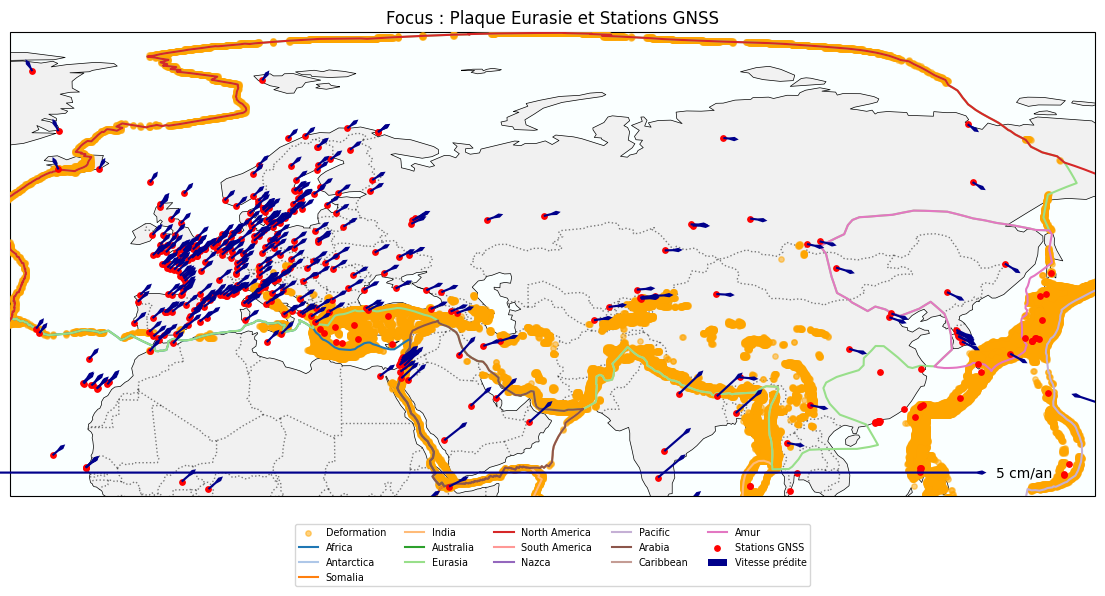
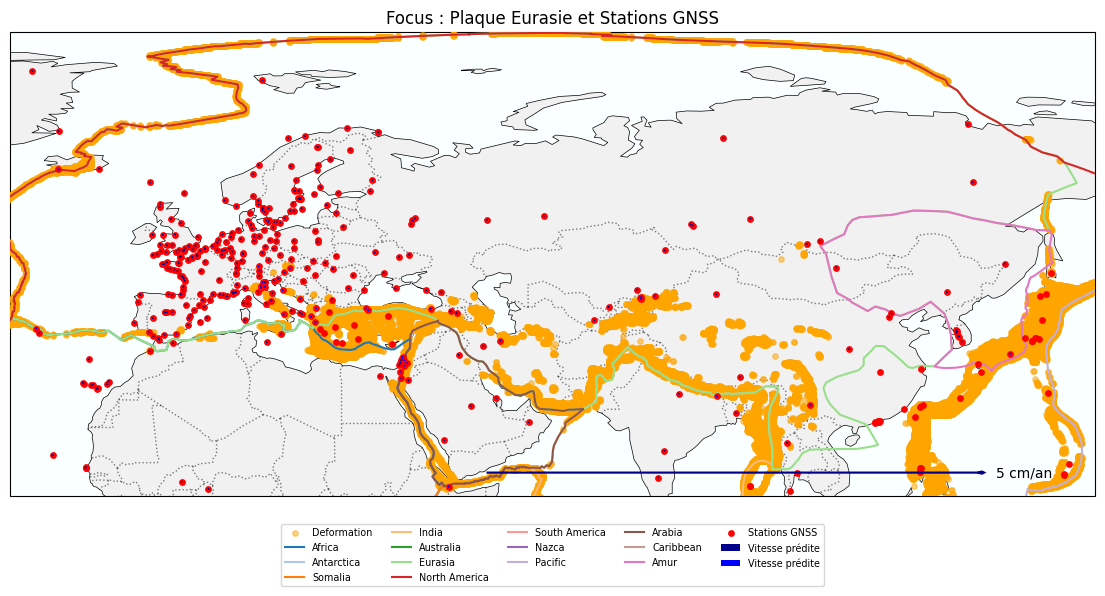
Debut ecriture doc string et exctraction via exportdoc

diff --git a/part5.py b/part5.py
@@ -5,6 +5,13 @@ import numpy as np
 
 
 def carte_monde_statique(dico_plaques, df_stations, df_GSRM):
+    """_summary_
+
+    Args:
+        dico_plaques (_type_): _description_
+        df_stations (_type_): _description_
+        df_GSRM (_type_): _description_
+    """
     fig = plt.figure(figsize=(12, 8))
     ax = fig.add_subplot(1, 1, 1, projection=ccrs.PlateCarree())
     
@@ -80,12 +87,12 @@ def carte_monde_statique(dico_plaques, df_stations, df_GSRM):
                   zorder=15,               
                   label='Vitesse prédite')
     
-    REF_VELOCITY = 5
+    REF_VELOCITY = 0.05
     
     ax.quiverkey(q, 
                  X=0.9, Y=0.05,            
                  U=REF_VELOCITY,           
-                 label=f'{REF_VELOCITY} cm/an', 
+                 label=f'{REF_VELOCITY} m/an', 
                  labelpos='E',             
                  coordinates='axes', fontproperties={'size': 10})
 
@@ -98,6 +105,13 @@ def carte_monde_statique(dico_plaques, df_stations, df_GSRM):
     plt.show()
 
 def carte_eurasie_statique(dico_plaques, df_stations, df_GSRM):
+    """_summary_
+
+    Args:
+        dico_plaques (_type_): _description_
+        df_stations (_type_): _description_
+        df_GSRM (_type_): _description_
+    """
     fig = plt.figure(figsize=(14, 8))
     
     ax = fig.add_subplot(1, 1, 1, projection=ccrs.PlateCarree())
@@ -165,7 +179,7 @@ def carte_eurasie_statique(dico_plaques, df_stations, df_GSRM):
     q2 = ax.quiver(df_stations.loc[mask2, 'lon(degres)'].values, df_stations.loc[mask2,'lat(degres)'].values,
                   df_stations.loc[mask2,'VE'].values, df_stations.loc[mask2,'VN'].values,
                   transform=ccrs.PlateCarree(),
-                  color='lightblue',        
+                  color='blue',        
                   width=0.002,           
                   headwidth=2,         
                   headlength=2,            
@@ -173,7 +187,7 @@ def carte_eurasie_statique(dico_plaques, df_stations, df_GSRM):
                   scale_units='inches',   
                   zorder=15,               
                   label='Vitesse prédite')
-    REF_VELOCITY = 5 
+    REF_VELOCITY = 0.05 
     
     ax.quiverkey(q, 
                  X=0.9, Y=0.05,           

diff --git a/exportdoc.py b/exportdoc.py
@@ -1,0 +1,61 @@
+import ast
+import glob
+import os
+
+def extract_docstrings_to_markdown(output_file="Documentation_Projet.md"):
+
+    files = sorted(glob.glob("*.py"))
+
+    current_script = os.path.basename(__file__)
+    if current_script in files:
+        files.remove(current_script)
+
+    with open(output_file, "w", encoding="utf-8") as out:
+        out.write("# Documentation du Projet\n\n")
+        out.write(f"Généré automatiquement pour : {', '.join(files)}\n\n---\n\n")
+
+        for file_path in files:
+            print(f"Extraction de {file_path}...")
+            
+            with open(file_path, "r", encoding="utf-8") as f:
+                source = f.read()
+            
+            try:
+                tree = ast.parse(source)
+            except SyntaxError:
+                print(f"Erreur de syntaxe dans {file_path}, ignoré.")
+                continue
+
+            out.write(f"## Fichier : `{file_path}`\n\n")
+
+            module_doc = ast.get_docstring(tree)
+            if module_doc:
+                out.write(f"**Description du module :**\n\n>{module_doc.replace(chr(10), chr(10)+'> ')}\n\n")
+            
+            functions_found = False
+            for node in tree.body:
+                if isinstance(node, (ast.FunctionDef, ast.ClassDef)):
+                    functions_found = True
+                    name = node.name
+                    type_obj = "Fonction" if isinstance(node, ast.FunctionDef) else "Classe"
+                    
+                    
+                    doc = ast.get_docstring(node)
+                    
+                    out.write(f"### {type_obj} : `{name}`\n")
+                    if doc:
+                        
+                        formatted_doc = doc.replace('\n', '\n> ')
+                        out.write(f"> {formatted_doc}\n\n")
+                    else:
+                        out.write("> *Pas de documentation.*\n\n")
+            
+            if not functions_found:
+                out.write("*Aucune fonction ou classe détectée.*\n\n")
+            
+            out.write("---\n\n")
+
+    print(f"\nsuccès ! La documentation a été sauvegardée dans : {output_file}")
+
+if __name__ == "__main__":
+    extract_docstrings_to_markdown()

diff --git a/part2.py b/part2.py
@@ -68,16 +68,14 @@ def isIn_it(df_points, df_plaques):
     return pd.Series(results, index=df_points.index)
 
 def isIn_mat(df_points, df_plaques):
-    """
-    Détermine pour chaque point de df_points dans quelle plaque de df_plaques il se trouve
-    en utilisant un algorithme de ray-casting vectorisé (matriciel).
-    
+    """_summary_
+
     Args:
-        df_points (pd.DataFrame): DataFrame contenant les points avec les colonnes 'lon(degres)' et 'lat(degres)'.
-        df_plaques (dict): Dictionnaire de DataFrames représentant les polygones des plaques.
-        
+        df_points (_type_): _description_
+        df_plaques (_type_): _description_
+
     Returns:
-        pd.Series: Une série avec le nom de la plaque pour chaque point.
+        _type_: _description_
     """
     p_lon = df_points['lon(degres)'].values.reshape(-1, 1)
     p_lat = df_points['lat(degres)'].values.reshape(-1, 1)
@@ -115,6 +113,15 @@ def isIn_mat(df_points, df_plaques):
     return pd.Series(results, index=df_points.index)
 
 def isIn_geoPandas(df_points, path):
+    """_summary_
+
+    Args:
+        df_points (_type_): _description_
+        path (_type_): _description_
+
+    Returns:
+        _type_: _description_
+    """
     gdf_points = geopandas.GeoDataFrame(df_points, geometry=geopandas.points_from_xy(df_points['lon(degres)'], df_points['lat(degres)']), crs="EPSG:4326")
     gdf_plaques = geopandas.read_file(path)
     

diff --git a/main.py b/main.py
@@ -2,9 +2,7 @@ import numpy as np
 import pandas as pd 
 import matplotlib.pyplot as plt
 import cartopy.crs as ccrs
-import datetime as t
 from tqdm import tqdm 
-import math
 import time
 import json
 import part1

diff --git a/Documentation_Projet.md b/Documentation_Projet.md
@@ -1,0 +1,126 @@
+# Documentation du Projet
+
+Généré automatiquement pour : main.py, part1.py, part2.py, part3.py, part4.py, part5.py
+
+---
+
+## Fichier : `main.py`
+
+*Aucune fonction ou classe détectée.*
+
+---
+
+## Fichier : `part1.py`
+
+### Fonction : `xyz_to_pol`
+> *Pas de documentation.*
+
+### Fonction : `rad_to_degres`
+> *Pas de documentation.*
+
+### Fonction : `radlon`
+> *Pas de documentation.*
+
+### Fonction : `radlat`
+> *Pas de documentation.*
+
+### Fonction : `degreslon`
+> *Pas de documentation.*
+
+### Fonction : `degreslat`
+> *Pas de documentation.*
+
+---
+
+## Fichier : `part2.py`
+
+### Fonction : `is_point_in_polygon`
+> Détermine si un point est à l'intérieur d'un polygone donné en utilisant l'algorithme du ray-casting.
+> 
+> Args:
+>     point_lon (float): Longitude du point.
+>     point_lat (float): Latitude du point.
+>     polygon_vertices (list of tuples): Une liste de tuples (lon, lat) représentant les sommets du polygone.
+> 
+> Returns:
+>     bool: True si le point est dans le polygone, False sinon.
+
+### Fonction : `find_plate_for_station`
+> *Pas de documentation.*
+
+### Fonction : `isIn_it`
+> Détermine pour chaque point de df_points dans quelle plaque de df_plaques il se trouve
+> en utilisant un algorithme de ray-casting itératif.
+> 
+> Args:
+>     df_points (pd.DataFrame): DataFrame contenant les points avec les colonnes 'lon(degres)' et 'lat(degres)'.
+>     df_plaques (dict): Dictionnaire de DataFrames représentant les polygones des plaques.
+>     
+> Returns:
+>     pd.Series: Une série avec le nom de la plaque pour chaque point.
+
+### Fonction : `isIn_mat`
+> _summary_
+> 
+> Args:
+>     df_points (_type_): _description_
+>     df_plaques (_type_): _description_
+> 
+> Returns:
+>     _type_: _description_
+
+### Fonction : `isIn_geoPandas`
+> _summary_
+> 
+> Args:
+>     df_points (_type_): _description_
+>     path (_type_): _description_
+> 
+> Returns:
+>     _type_: _description_
+
+---
+
+## Fichier : `part3.py`
+
+### Fonction : `distance_haversine`
+> *Pas de documentation.*
+
+### Fonction : `distance`
+> *Pas de documentation.*
+
+### Fonction : `deg_rad`
+> *Pas de documentation.*
+
+### Fonction : `proxi`
+> *Pas de documentation.*
+
+---
+
+## Fichier : `part4.py`
+
+### Fonction : `v_pred`
+> *Pas de documentation.*
+
+---
+
+## Fichier : `part5.py`
+
+### Fonction : `carte_monde_statique`
+> _summary_
+> 
+> Args:
+>     dico_plaques (_type_): _description_
+>     df_stations (_type_): _description_
+>     df_GSRM (_type_): _description_
+
+### Fonction : `carte_eurasie_statique`
+> _summary_
+> 
+> Args:
+>     dico_plaques (_type_): _description_
+>     df_stations (_type_): _description_
+>     df_GSRM (_type_): _description_
+
+---
+
